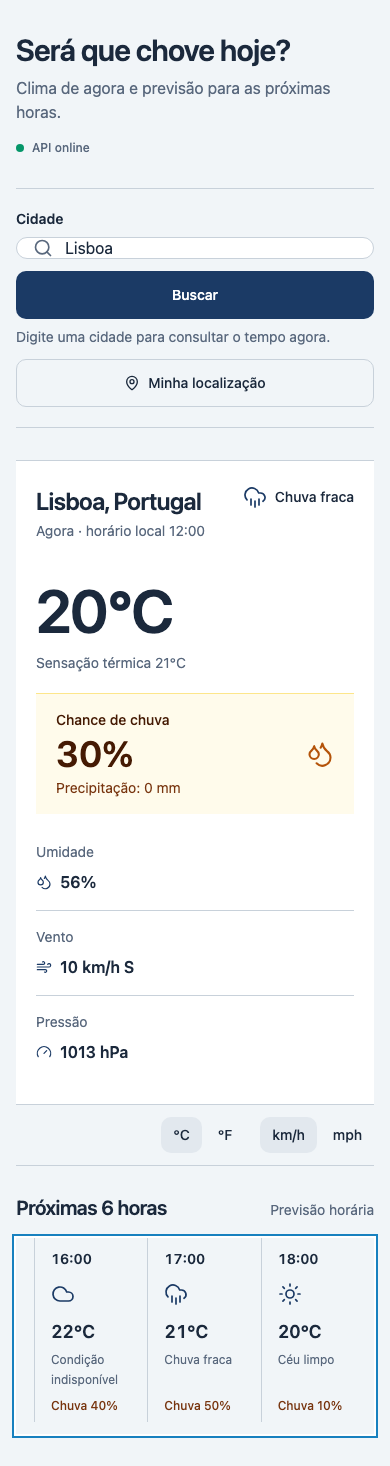
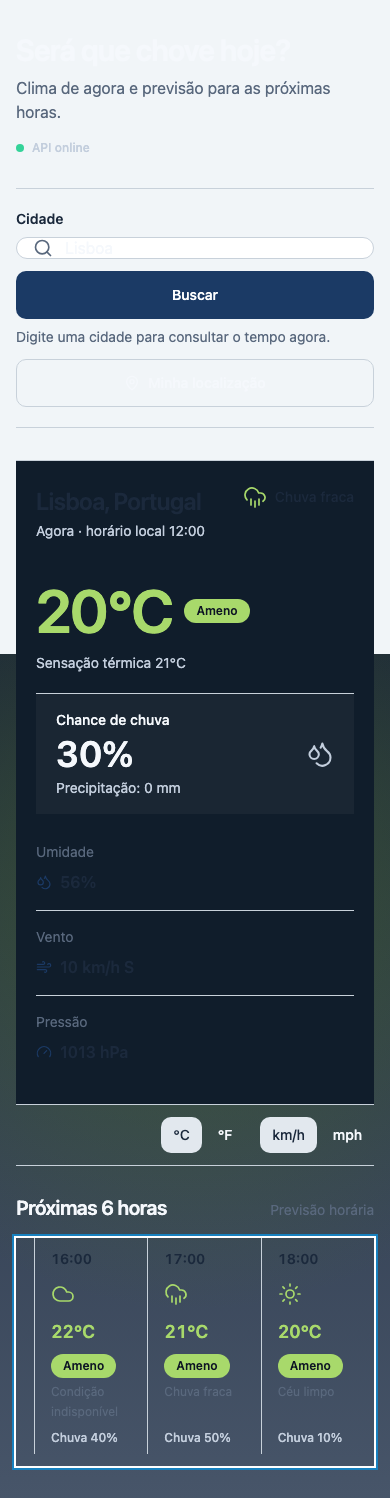
feat: `task_7.md` concluida -- frontend: testes E2E da identidade (specs Playwright e fixtures)

diff --git a/e2e/futuristic-identity.spec.ts b/e2e/futuristic-identity.spec.ts
@@ -1,0 +1,122 @@
+import { expect, test } from '@playwright/test'
+import { mockApi, mockDashboard, readFixture, searchCity } from './weather-dashboard.helpers.js'
+
+const DESKTOP_VIEWPORT = { width: 1440, height: 900 }
+const MOBILE_VIEWPORT = { width: 390, height: 844 }
+const MAX_TRANSITION_MS = 600
+
+test('E2E-09 exibe cidade, condição, temperatura e chuva na primeira dobra', async ({ page }) => {
+  await mockDashboard(page)
+  for (const viewport of [DESKTOP_VIEWPORT, MOBILE_VIEWPORT]) {
+    await page.setViewportSize(viewport)
+    await page.goto('/')
+    await searchCity(page, 'Lisboa')
+    const current = page.locator('section[aria-labelledby="current-weather-title"]')
+    for (const locator of [page.getByRole('heading', { name: 'Lisboa, Portugal' }), current.getByText('Chuva fraca'), current.getByText('20°C'), current.getByText('Ameno'), current.getByText('Chance de chuva')]) {
+      await expect(locator).toBeVisible()
+      const box = await locator.boundingBox()
+      expect(box?.y).toBeLessThan(viewport.height)
+    }
+  }
+})
+
+test('E2E-10 representa trovoada noturna e céu limpo diurno', async ({ page }) => {
+  await mockApi(page, '/api/geocode', 'geocode-single.json')
+  await mockApi(page, '/api/weather', 'weather-thunder-night.json')
+  await page.goto('/')
+  await searchCity(page, 'Lisboa')
+  await expect(page.locator('main')).toHaveAttribute('data-atmosphere', 'thunderstorm')
+  await expect(page.locator('main')).toHaveAttribute('data-period', 'night')
+  await expect(page.getByTestId('thunder-layer')).toBeVisible()
+  await page.reload()
+  await page.unroute('**/api/weather**')
+  await mockApi(page, '/api/weather', 'weather-clear-day.json')
+  await searchCity(page, 'Lisboa')
+  await expect(page.locator('main')).toHaveAttribute('data-atmosphere', 'clear')
+  await expect(page.locator('main')).toHaveAttribute('data-period', 'day')
+})
+
+test('E2E-11 mantém a mesma faixa para cidades com a mesma temperatura', async ({ page }) => {
+  await page.route('**/api/geocode**', async (route) => {
+    const city = new URL(route.request().url()).searchParams.get('city')
+    const fixture = await readFixture('geocode-single.json')
+    const body = city === 'Porto' ? fixture.replaceAll('Lisboa', 'Porto') : fixture
+    await route.fulfill({ status: 200, contentType: 'application/json', body })
+  })
+  await mockApi(page, '/api/weather', 'weather-clear-day.json')
+  await page.goto('/')
+  await searchCity(page, 'Lisboa')
+  await expect(page.getByRole('heading', { name: 'Lisboa, Portugal' })).toBeVisible()
+  const firstBand = await page.locator('main').getAttribute('data-band')
+  if (firstBand === null) throw new Error('A primeira faixa não foi renderizada')
+  await searchCity(page, 'Porto')
+  await expect(page.locator('main')).toHaveAttribute('data-band', await firstBand)
+  await expect(page.getByText('Ameno').first()).toBeVisible()
+})
+
+test('E2E-13 faz apenas requisições HTTP locais durante a consulta', async ({ page }) => {
+  const remoteRequests: string[] = []
+  page.on('request', (request) => {
+    if (/^https?:/.test(request.url()) && !request.url().includes('127.0.0.1')) remoteRequests.push(request.url())
+  })
+  await mockDashboard(page)
+  await page.goto('/')
+  await searchCity(page, 'Lisboa')
+  await expect(page.getByRole('heading', { name: 'Lisboa, Portugal' })).toBeVisible()
+  expect(remoteRequests).toEqual([])
+})
+
+test('E2E-14 limita a transição a 600 ms sem bloquear unidade', async ({ page }) => {
+  await mockDashboard(page)
+  await page.goto('/')
+  await searchCity(page, 'Lisboa')
+  const transition = await page.getByTestId('sky-layer').locator('[data-sky-layer="current"]').evaluate((element) => getComputedStyle(element).transitionDuration)
+  expect(Number.parseFloat(transition) * 1000).toBeLessThanOrEqual(MAX_TRANSITION_MS)
+  await page.getByRole('button', { name: '°F' }).click()
+  await expect(page.getByText('68°F').first()).toBeVisible()
+})
+
+test('E2E-15 alterna unidades sem alterar data-band ou refazer clima', async ({ page }) => {
+  let weatherRequests = 0
+  await mockApi(page, '/api/geocode', 'geocode-single.json')
+  await page.route('**/api/weather**', async (route) => {
+    weatherRequests += 1
+    await route.fulfill({ status: 200, contentType: 'application/json', body: await readFixture('weather-ok.json') })
+  })
+  await page.goto('/')
+  await searchCity(page, 'Lisboa')
+  const main = page.locator('main')
+  await expect(main).toHaveAttribute('data-band', 'mild')
+  await page.getByRole('button', { name: '°F' }).click()
+  await expect(main).toHaveAttribute('data-band', 'mild')
+  expect(weatherRequests).toBe(1)
+})
+
+test('E2E-16 mantém atmosfera neutra e status semântico em erro', async ({ page }) => {
+  await mockApi(page, '/api/geocode', 'geocode-single.json')
+  await mockApi(page, '/api/weather', 'weather-error.json', 502)
+  await page.goto('/')
+  await searchCity(page, 'Lisboa')
+  await expect(page.locator('main')).toHaveAttribute('data-atmosphere', 'neutral')
+  await expect(page.locator('main')).not.toHaveAttribute('data-band')
+  await expect(page.getByRole('alert')).toBeVisible()
+  await page.unroute('**/api/weather**')
+  await mockApi(page, '/api/weather', 'weather-null-temperature.json')
+  await page.reload()
+  await searchCity(page, 'Lisboa')
+  await expect(page.locator('main')).toHaveAttribute('data-atmosphere', 'rain')
+  await expect(page.locator('main')).not.toHaveAttribute('data-band')
+  await expect(page.locator('section[aria-labelledby="current-weather-title"]').getByText('—').first()).toBeVisible()
+})
+
+test('E2E-18 mantém fundo fora da árvore focável e controles navegáveis', async ({ page }) => {
+  await mockDashboard(page, 'geocode-multiple.json')
+  await page.goto('/')
+  await searchCity(page, 'Vitória')
+  const background = page.getByTestId('atmospheric-background')
+  await expect(background).toHaveAttribute('aria-hidden', 'true')
+  expect(await background.locator('[tabindex]').count()).toBe(0)
+  await page.getByRole('searchbox', { name: 'Cidade' }).focus()
+  await page.keyboard.press('Tab')
+  await expect(page.getByRole('button', { name: 'Buscar' })).toBeFocused()
+})

diff --git a/e2e/futuristic-identity.motion.spec.ts b/e2e/futuristic-identity.motion.spec.ts
@@ -1,0 +1,23 @@
+import { expect, test } from '@playwright/test'
+import { mockDashboard, searchCity } from './weather-dashboard.helpers.js'
+
+test('E2E-12 respeita movimento reduzido com composição estática', async ({ page }) => {
+  await page.emulateMedia({ reducedMotion: 'reduce' })
+  await mockDashboard(page)
+  await page.goto('/')
+  await searchCity(page, 'Lisboa')
+  await expect(page.locator('main')).toHaveAttribute('data-motion', 'reduced')
+  await expect(page.locator('section[aria-labelledby="current-weather-title"]').getByText('Ameno')).toBeVisible()
+  const animatedStyles = await page.locator('[data-atmosphere] [style*="animation"]').evaluateAll((elements) => elements.map((element) => getComputedStyle(element).animationName))
+  expect(animatedStyles.every((animationName) => animationName === 'none')).toBe(true)
+})
+
+test('E2E-17 mantém conteúdo visível com cores forçadas', async ({ page }) => {
+  await page.emulateMedia({ forcedColors: 'active' })
+  await mockDashboard(page)
+  await page.goto('/')
+  await searchCity(page, 'Lisboa')
+  await expect(page.getByRole('heading', { name: 'Lisboa, Portugal' })).toBeVisible()
+  await expect(page.getByTestId('atmospheric-background')).toBeHidden()
+  await expect(page.getByRole('button', { name: '°F' })).toBeEnabled()
+})

diff --git a/tasks/prd-identidade-futurista-reativa/task_7.md b/tasks/prd-identidade-futurista-reativa/task_7.md
@@ -37,11 +37,11 @@ Confirmada a leitura do `AGENTS.md` e de todas as rules em `.agents/rules/`. Rel
 
 ## Subtarefas
 
-- [ ] 7.1 Criar fixtures em `e2e/fixtures/`: `weather-thunder-night.json` (trovoada, `isDay: false`), `weather-clear-day.json` (céu limpo diurno) e `weather-null-temperature.json` (`temperatureC: null`), coerentes com o contrato vigente de `GET /api/weather`.
-- [ ] 7.2 Criar `e2e/futuristic-identity.spec.ts` com E2E-09, E2E-10, E2E-11, E2E-13, E2E-14, E2E-15, E2E-16 e E2E-18, reutilizando `mockApi`/`searchCity` de `weather-dashboard.helpers.ts`.
-- [ ] 7.3 Criar `e2e/futuristic-identity.motion.spec.ts` com E2E-12 (`emulateMedia reducedMotion`) e E2E-17 (`emulateMedia forcedColors`).
-- [ ] 7.4 Rodar a suíte E2E completa (`npm test` em `e2e/`): E2E-01 a E2E-08 existentes + novos, todos passando.
-- [ ] 7.5 Rodar `npm run typecheck` em `e2e/`.
+- [x] 7.1 Criar fixtures em `e2e/fixtures/`: `weather-thunder-night.json` (trovoada, `isDay: false`), `weather-clear-day.json` (céu limpo diurno) e `weather-null-temperature.json` (`temperatureC: null`), coerentes com o contrato vigente de `GET /api/weather`.
+- [x] 7.2 Criar `e2e/futuristic-identity.spec.ts` com E2E-09, E2E-10, E2E-11, E2E-13, E2E-14, E2E-15, E2E-16 e E2E-18, reutilizando `mockApi`/`searchCity` de `weather-dashboard.helpers.ts`.
+- [x] 7.3 Criar `e2e/futuristic-identity.motion.spec.ts` com E2E-12 (`emulateMedia reducedMotion`) e E2E-17 (`emulateMedia forcedColors`).
+- [x] 7.4 Rodar a suíte E2E completa (`npm test` em `e2e/`): E2E-01 a E2E-08 existentes + novos, todos passando.
+- [x] 7.5 Rodar `npm run typecheck` em `e2e/`.
 
 ## Detalhes de implementação
 
@@ -74,16 +74,16 @@ Não aplicável.
 
 ### Testes E2E
 
-- [ ] E2E-09 — exibe a informação principal na primeira dobra em desktop e celular
-- [ ] E2E-10 — representa a condição e o período da cidade consultada
-- [ ] E2E-11 — aplica a mesma faixa para a mesma temperatura em cidades diferentes
-- [ ] E2E-12 — respeita movimento reduzido com alternativa estática
-- [ ] E2E-13 — não faz requisições externas além da API local
-- [ ] E2E-14 — conclui a transição de tema em até 600 ms sem bloquear interação
-- [ ] E2E-15 — alterna unidades mantendo a faixa de cor
-- [ ] E2E-16 — mantém atmosfera neutra e cores de status distintas em falhas
-- [ ] E2E-17 — permanece legível em cores forçadas do sistema
-- [ ] E2E-18 — preserva acessibilidade de teclado e leitor de tela
+- [x] E2E-09 — exibe a informação principal na primeira dobra em desktop e celular
+- [x] E2E-10 — representa a condição e o período da cidade consultada
+- [x] E2E-11 — aplica a mesma faixa para a mesma temperatura em cidades diferentes
+- [x] E2E-12 — respeita movimento reduzido com alternativa estática
+- [x] E2E-13 — não faz requisições externas além da API local
+- [x] E2E-14 — conclui a transição de tema em até 600 ms sem bloquear interação
+- [x] E2E-15 — alterna unidades mantendo a faixa de cor
+- [x] E2E-16 — mantém atmosfera neutra e cores de status distintas em falhas
+- [x] E2E-17 — permanece legível em cores forçadas do sistema
+- [x] E2E-18 — preserva acessibilidade de teclado e leitor de tela
 
 ## Arquivos relevantes
 

diff --git a/tasks/prd-identidade-futurista-reativa/tasks.md b/tasks/prd-identidade-futurista-reativa/tasks.md
@@ -10,5 +10,5 @@
 - [x] 4.0 Fundo atmosférico e base CSS (camadas decorativas, keyframes, reduced-motion, forced-colors)
 - [x] 5.0 Componentes de clima tokenizados (chip de faixa, card atual, previsão horária, status)
 - [x] 6.0 Integração na view (useAtmosphereTheme, raiz temática, primeira dobra)
-- [ ] 7.0 Testes E2E da identidade (specs Playwright e fixtures)
+- [x] 7.0 Testes E2E da identidade (specs Playwright e fixtures)
 - [ ] 8.0 Não regressão, casos manuais de QA e fechamento
